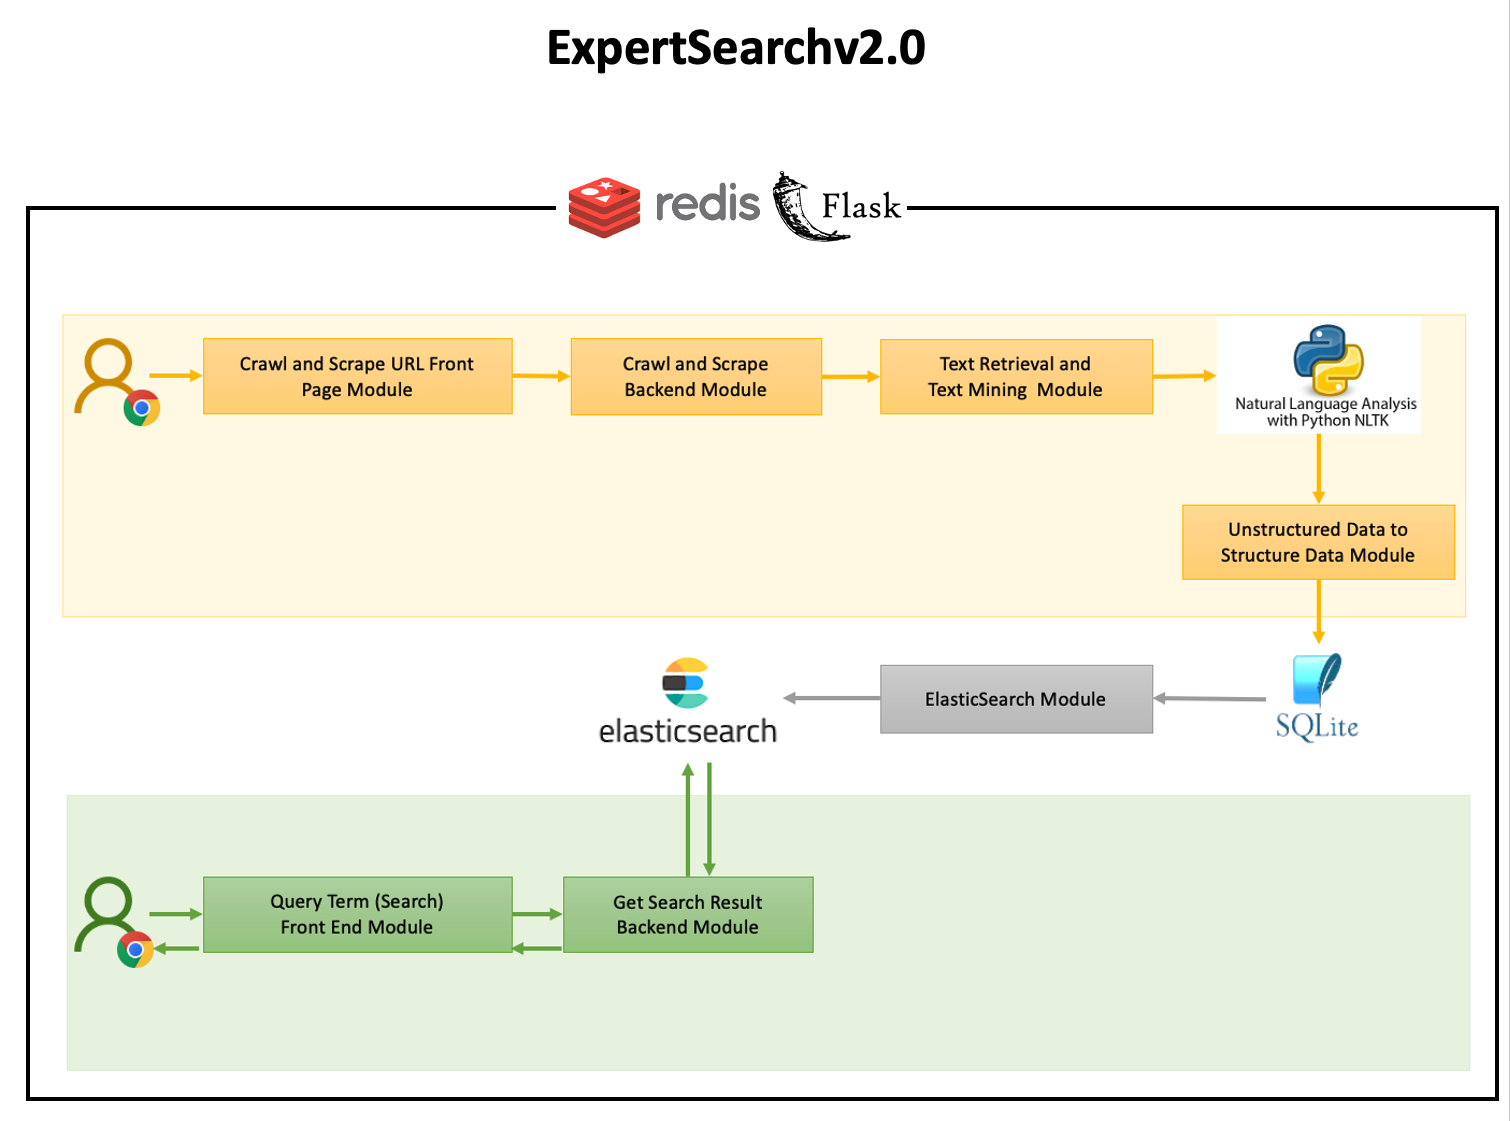
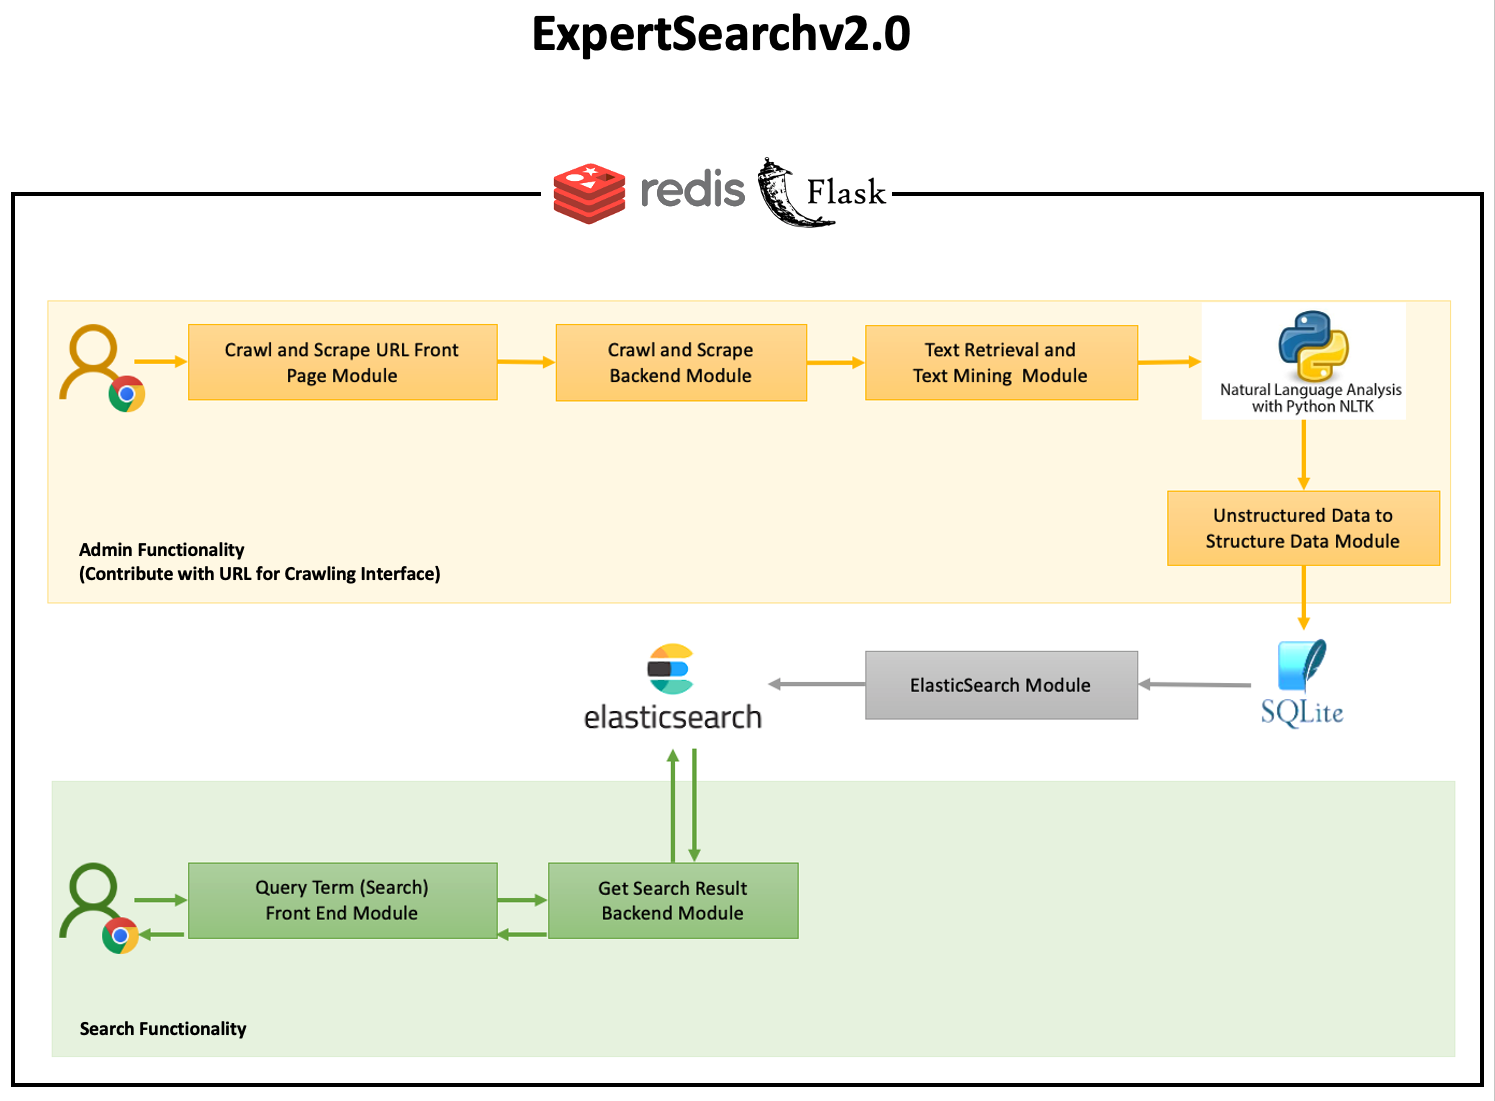
readme update

Changed region(s): [[0.0, 0.1544, 1.0, 0.9882], [0.3385, 0.0, 0.6154, 0.0618]]

diff --git a/README.md b/README.md
@@ -353,7 +353,7 @@ x86 64-bit CPU Multi Core **[Recommended]**
 
 
 :pushpin: :pushpin:     
-#### ExpertSearch v2.0 Admin Functionality
+#### ExpertSearch v2.0 Admin Functionality (Contribute with URL for Crawling Interface)
 
 * Admin interface is primarily responsible for receiving university/department/faculty name or urls as input from user to parse, crawl, scrape data, retrieve fields using various text mining approaches and insert structured data to database.
 * The purpose of Admin is to add more data from admin provided urls to broaden the search results and add more data availability. This is also a continuous process to enrich the system with more and more data as they are available or explored.
